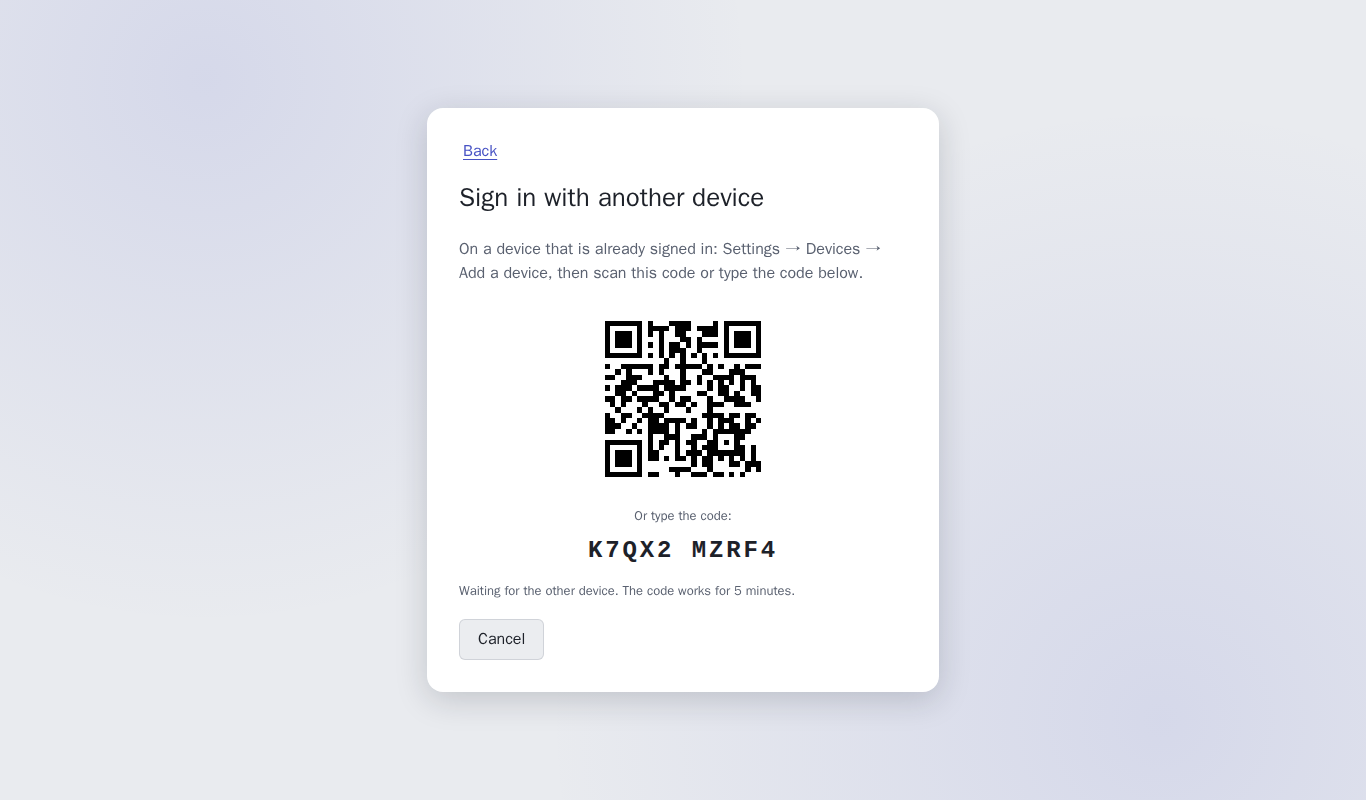
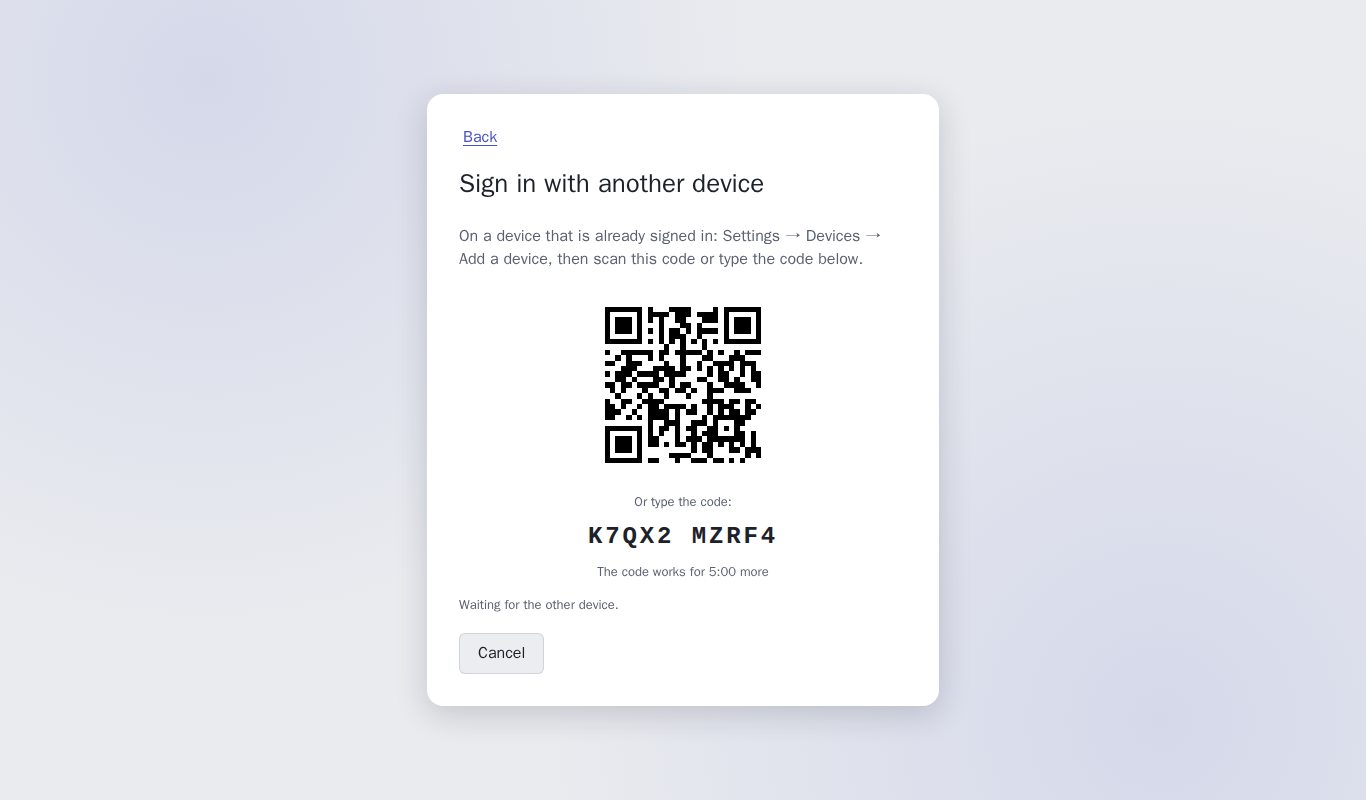
ui: device link, UX on #391: focus on "They don't match", a live countdown on the code, code and digits in <bdi dir=ltr>
- Settings -> Devices: the safe answer has the initial focus.
- New device: 'The code works for m:ss more' ticks each second (a polite read-out
  once a minute); 'Waiting for the other device.' no longer repeats the 5 minutes.
- The code and the 6 digits sit in <bdi dir="ltr"> on both devices.
- Tests check all three. Shots 420-425 re-taken.

Changed region(s): [[0.3075, 0.0938, 0.7072, 0.3438], [0.3075, 0.625, 0.7072, 0.9062], [0.4305, 0.375, 0.5842, 0.5938]]

diff --git a/ui/src/screens/onboarding/DeviceLink.tsx b/ui/src/screens/onboarding/DeviceLink.tsx
@@ -18,6 +18,25 @@ const FAILED_TEXT = {
   network: 'deviceLink.failed.network',
 } as const;
 
+/** "4:59", ticking each second until `until`; read out only at each whole minute. */
+function Countdown({ until }: { until: number }) {
+  const [now, setNow] = useState(() => Date.now());
+  useEffect(() => {
+    const t = setInterval(() => setNow(Date.now()), 1000);
+    return () => clearInterval(t);
+  }, []);
+  const left = Math.max(0, Math.ceil((until - now) / 1000));
+  const time = `${Math.floor(left / 60)}:${String(left % 60).padStart(2, '0')}`;
+  return (
+    <p className="device-link-countdown muted small">
+      <FormattedMessage id="deviceLink.expiresIn" values={{ time: <bdi dir="ltr">{time}</bdi> }} />
+      <span className="visually-hidden" aria-live="polite">
+        {left % 60 === 0 && left > 0 ? <FormattedMessage id="deviceLink.minutesLeft" values={{ count: left / 60 }} /> : null}
+      </span>
+    </p>
+  );
+}
+
 export function DeviceLinkScreen({ onLinked, onCancel }: { onLinked: () => void; onCancel: () => void }) {
   const core = useCore();
   const intl = useIntl();
@@ -71,14 +90,15 @@ export function DeviceLinkScreen({ onLinked, onCancel }: { onLinked: () => void;
               <p className="device-link-code-label muted small">
                 <FormattedMessage id="deviceLink.codeLabel" />
               </p>
-              <p className="device-link-code" dir="ltr">
-                <bdi>{groupCode(offer.code)}</bdi>
+              <p className="device-link-code">
+                <bdi dir="ltr">{groupCode(offer.code)}</bdi>
               </p>
+              <Countdown until={offer.expiresAt} />
             </div>
           ) : (
             <span className="spinner" role="status" aria-label={intl.formatMessage({ id: 'deviceLink.preparing' })} />
           )}
-          <p className="muted small" role="status">
+          <p className="muted small">
             <FormattedMessage id="deviceLink.waiting" />
           </p>
         </>
@@ -88,8 +108,8 @@ export function DeviceLinkScreen({ onLinked, onCancel }: { onLinked: () => void;
           <p>
             <FormattedMessage id="deviceLink.confirmHint" />
           </p>
-          <p className="device-link-sas" dir="ltr" aria-label={intl.formatMessage({ id: 'deviceLink.sasLabel' }, { sas: state.sas.split('').join(' ') })}>
-            {groupSas(state.sas)}
+          <p className="device-link-sas" aria-label={intl.formatMessage({ id: 'deviceLink.sasLabel' }, { sas: state.sas.split('').join(' ') })}>
+            <bdi dir="ltr">{groupSas(state.sas)}</bdi>
           </p>
           <p className="muted small" role="status">
             <FormattedMessage id="deviceLink.confirmWaiting" />

diff --git a/ui/src/test/deviceLink.test.tsx b/ui/src/test/deviceLink.test.tsx
@@ -32,10 +32,13 @@ async function newDevice() {
 describe('device link: the new device', () => {
   it('shows the QR and the grouped code, then the digits, then asks only the agreement', async () => {
     const { core } = await newDevice();
-    expect(screen.getByText('K7QX2 MZRF4')).toBeTruthy();
+    // UX: the code and the digits stay left-to-right in RTL; the code counts down.
+    expect(screen.getByText('K7QX2 MZRF4').closest('bdi')?.getAttribute('dir')).toBe('ltr');
+    expect(plain(document.querySelector('.device-link-countdown')?.textContent)).toMatch(/^The code works for [45]:[0-9][0-9] more/);
     expect(document.querySelector('.qr-code path')?.getAttribute('d')).toMatch(/^M\d/);
     act(() => core.simulateDeviceLink('confirm'));
-    const digits = await screen.findByText('482 913');
+    const digits = (await screen.findByText('482 913')).closest('p')!;
+    expect(screen.getByText('482 913').closest('bdi')?.getAttribute('dir')).toBe('ltr');
     expect(plain(digits.getAttribute('aria-label'))).toBe('Digits to compare: 4 8 2 9 1 3');
     expect(screen.queryByRole('img', { name: 'QR code to link this device' })).toBeNull();
     act(() => core.simulateDeviceLink('done'));
@@ -99,6 +102,8 @@ describe('device link: the signed-in device', () => {
     await submit('k7qx2-mzrf4');
     expect(begin).toHaveBeenCalledWith('K7QX2MZRF4');
     const group = screen.getByRole('group', { name: /gets full access to your account/ });
+    // UX: the safe answer has the focus.
+    expect(document.activeElement).toBe(within(group).getByRole('button', { name: "They don't match" }));
     expect(within(group).getByText('482 913')).toBeTruthy();
     const confirm = vi.spyOn(core, 'confirmDeviceApproval');
     await click(within(group).getByRole('button', { name: 'They match, sign it in' }));

diff --git a/ui/src/screens/settings/Devices.tsx b/ui/src/screens/settings/Devices.tsx
@@ -142,8 +142,8 @@ export function DevicesSection() {
           <p id={warnId} className="device-warning">
             <FormattedMessage id="devices.compareQuestion" />
           </p>
-          <p className="device-link-sas" dir="ltr" aria-label={intl.formatMessage({ id: 'deviceLink.sasLabel' }, { sas: approval.sas.split('').join(' ') })}>
-            {groupSas(approval.sas)}
+          <p className="device-link-sas" aria-label={intl.formatMessage({ id: 'deviceLink.sasLabel' }, { sas: approval.sas.split('').join(' ') })}>
+            <bdi dir="ltr">{groupSas(approval.sas)}</bdi>
           </p>
           {error && (
             <p className="error small" role="alert">
@@ -154,7 +154,8 @@ export function DevicesSection() {
             <button type="button" className="danger" disabled={busy} onClick={() => void decide(true)}>
               <FormattedMessage id="devices.approve" />
             </button>
-            <button type="button" className="secondary" disabled={busy} onClick={() => void decide(false)}>
+            {/* UX: the safe answer has the focus. */}
+            <button type="button" className="secondary" autoFocus disabled={busy} onClick={() => void decide(false)}>
               <FormattedMessage id="devices.decline" />
             </button>
           </div>
